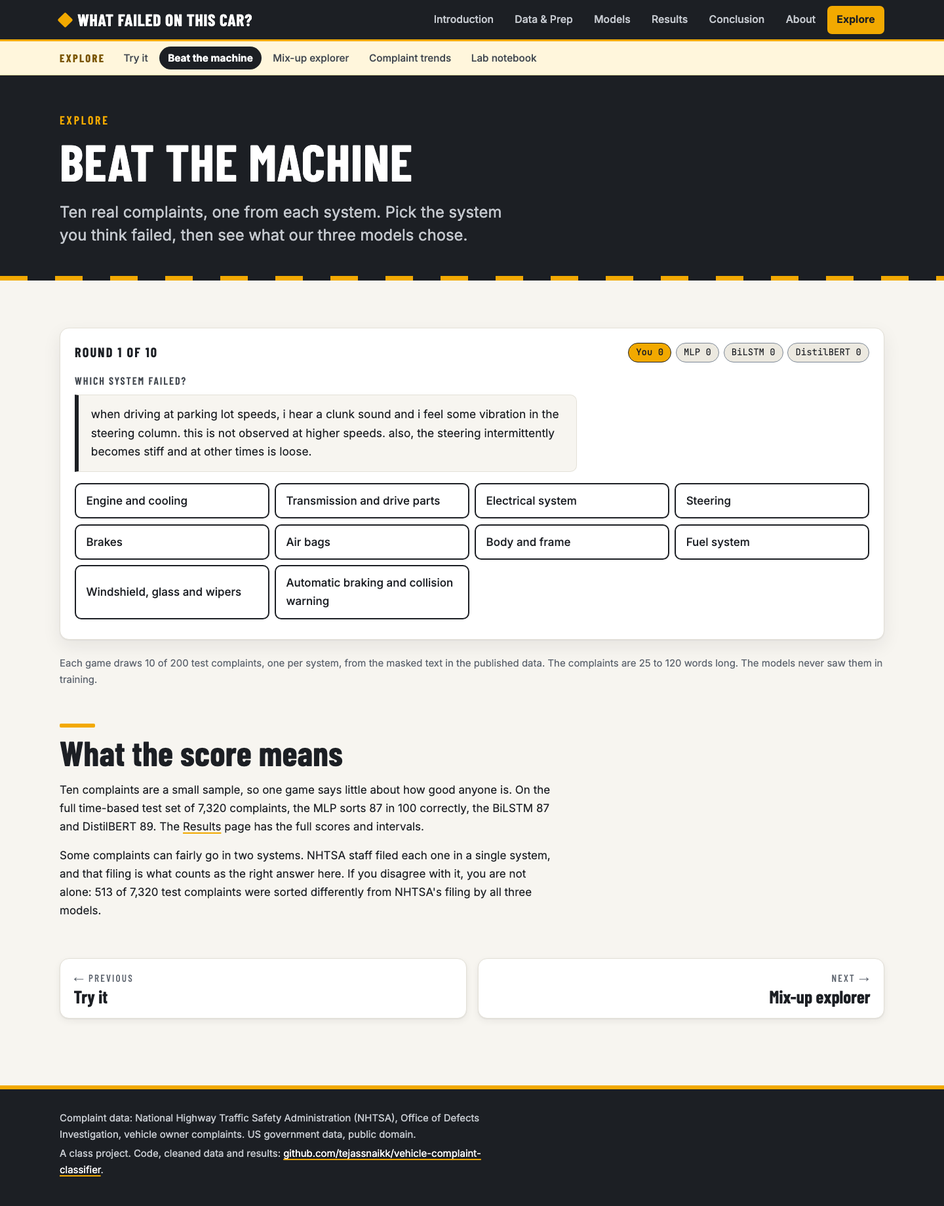
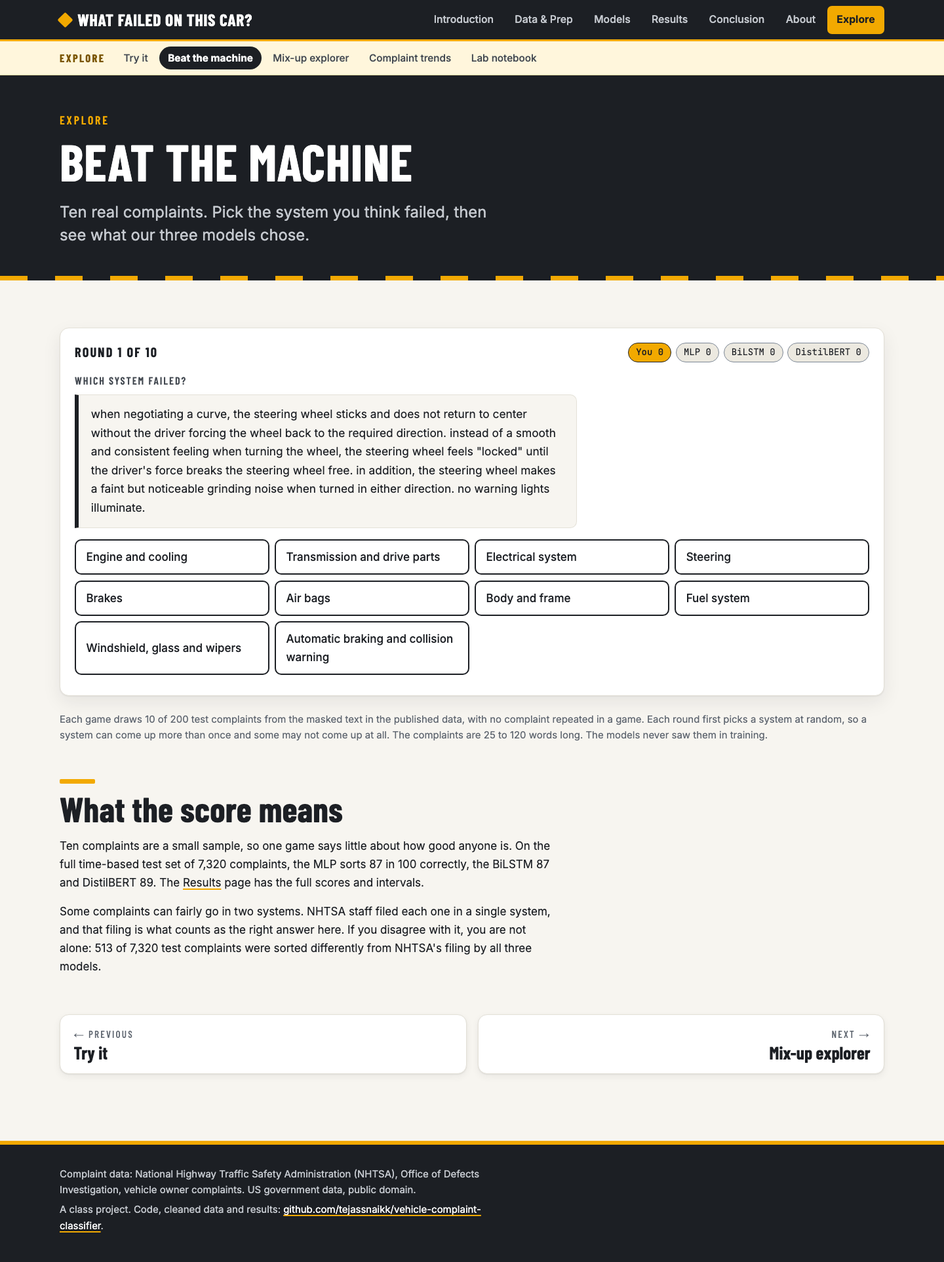
Explore: remove top-makes chart, random game rounds without repeats, notebook reads pre_masking_scores.json

diff --git a/docs/trends.html b/docs/trends.html
@@ -5,7 +5,7 @@
 <meta name="viewport" content="width=device-width, initial-scale=1">
 <meta name="theme-color" content="#1c1f24">
 <title>Complaint trends | What Failed on This Car?</title>
-<meta name="description" content="Interactive charts of NHTSA vehicle complaints per month by system, with filters for make and model year.">
+<meta name="description" content="An interactive chart of NHTSA vehicle complaints per month by system, with filters for make and model year.">
 <link rel="preconnect" href="https://fonts.googleapis.com">
 <link rel="preconnect" href="https://fonts.gstatic.com" crossorigin>
 <link rel="stylesheet" href="https://fonts.googleapis.com/css2?family=Barlow+Condensed:wght@500;600;700&amp;family=Inter:wght@400;500;600;700&amp;family=JetBrains+Mono:wght@400;500&amp;display=swap">
@@ -20,10 +20,10 @@
 <nav class="main" aria-label="Main"><ul><li><a href="introduction.html">Introduction</a></li><li><a href="data.html">Data &amp; Prep</a></li><li><a href="models.html">Models</a></li><li><a href="results.html">Results</a></li><li><a href="conclusion.html">Conclusion</a></li><li><a href="about.html">About</a></li><li><a href="try.html" aria-current="page" class=explore-link>Explore</a></li></ul></nav>
 </div></header>
 <nav class="explore-bar" aria-label="Explore"><div class="inner"><span class="lab">Explore</span><ul><li><a href="try.html">Try it</a></li><li><a href="game.html">Beat the machine</a></li><li><a href="mixups.html">Mix-up explorer</a></li><li><a href="trends.html" aria-current="page">Complaint trends</a></li><li><a href="notebook.html">Lab notebook</a></li></ul></div></nav>
-<div class="page-head"><div class="inner"><div class="kicker">Explore</div><h1>Complaint trends</h1><div class="subtitle">How many complaints each system gets per month, and which makes and model years they come from.</div></div></div>
+<div class="page-head"><div class="inner"><div class="kicker">Explore</div><h1>Complaint trends</h1><div class="subtitle">How many complaints each system gets per month, filtered by make and model year.</div></div></div>
 <main id="content">
 <section>
-<p class="section-lead">These charts count the 198,462 complaints in our cleaned dataset, received from January 2020 to October 2026. They are counts only. The balanced training and test samples used for the models are not used here, so the shares reflect the real mix of complaints in the cleaned dataset.</p>
+<p class="section-lead">This chart counts the 198,462 complaints in our cleaned dataset, received from January 2020 to October 2026. They are counts only. The balanced training and test samples used for the models are not used here, so the shares reflect the real mix of complaints in the cleaned dataset.</p>
 <div class="tool" id="tr-app" hidden>
 <div class="filters">
 <div class="cm-group"><label class="field-label" for="tr-make">Make</label><select id="tr-make"></select></div>
@@ -33,17 +33,14 @@
 <div class="chips" id="tr-chips" role="group" aria-label="Show or hide systems"></div>
 <div class="chart-wrap"><svg id="tr-line" role="img" aria-labelledby="tr-line-title" preserveAspectRatio="xMidYMid meet"><title id="tr-line-title">Line chart of complaints per month for the selected systems</title></svg><div class="tip" id="tr-tip" hidden></div></div>
 <div class="small" id="tr-summary"></div>
-<h2 class="chart-title">Top 10 makes for one system</h2>
-<div class="filters"><div class="cm-group"><label class="field-label" for="tr-sys">System</label><select id="tr-sys"></select></div></div>
-<div class="bars" id="tr-makes"></div>
-<div class="small">This chart uses the model-year filter above and ignores the make filter. It ranks the 30 makes with the most complaints overall, so a make outside that list never appears here.</div>
+<p class="small">Complaint counts reflect how many vehicles are on the road, not how reliable a make is.</p>
 <details><summary>Show the monthly numbers as a table</summary><div class="table-wrap" id="tr-table"></div></details>
 </div>
 <div id="tr-fallback"><div class="callout"><div class="callout-title">JavaScript is off</div><div class="body"><p>The interactive charts need JavaScript. The table below has complaints per year and system.</p></div></div>
 <div class="table-wrap"><table class="mx-static"><caption>Complaints received per year by system, cleaned dataset (2026 covers January to October).</caption><thead><tr><th scope="col">System</th><th scope="col">2020</th><th scope="col">2021</th><th scope="col">2022</th><th scope="col">2023</th><th scope="col">2024</th><th scope="col">2025</th><th scope="col">2026</th></tr></thead><tbody><tr><th scope="row">Engine and cooling</th><td>5,198</td><td>5,108</td><td>6,194</td><td>7,494</td><td>9,001</td><td>10,512</td><td>8,108</td></tr><tr><th scope="row">Transmission and drive parts</th><td>3,976</td><td>3,164</td><td>3,988</td><td>4,320</td><td>4,817</td><td>6,216</td><td>5,780</td></tr><tr><th scope="row">Electrical system</th><td>3,543</td><td>3,043</td><td>2,761</td><td>3,067</td><td>3,188</td><td>4,200</td><td>4,333</td></tr><tr><th scope="row">Steering</th><td>3,541</td><td>2,731</td><td>2,694</td><td>3,605</td><td>3,462</td><td>2,748</td><td>2,322</td></tr><tr><th scope="row">Brakes</th><td>2,543</td><td>2,206</td><td>2,401</td><td>3,104</td><td>2,931</td><td>2,762</td><td>2,295</td></tr><tr><th scope="row">Air bags</th><td>2,281</td><td>1,786</td><td>1,595</td><td>1,663</td><td>1,582</td><td>1,308</td><td>1,172</td></tr><tr><th scope="row">Body and frame</th><td>1,793</td><td>1,503</td><td>1,321</td><td>1,918</td><td>2,016</td><td>2,085</td><td>1,677</td></tr><tr><th scope="row">Fuel system</th><td>2,307</td><td>1,610</td><td>1,566</td><td>1,741</td><td>2,420</td><td>2,117</td><td>2,104</td></tr><tr><th scope="row">Windshield, glass and wipers</th><td>1,620</td><td>1,199</td><td>1,075</td><td>1,088</td><td>839</td><td>850</td><td>735</td></tr><tr><th scope="row">Automatic braking and collision warning</th><td>78</td><td>448</td><td>1,760</td><td>1,185</td><td>933</td><td>837</td><td>894</td></tr></tbody></table></div></div>
 </section>
 <section>
-<h2>How to read these charts</h2>
+<h2>How to read this chart</h2>
 <ul>
 <li><strong>Counts depend on who files.</strong> A make with more cars on the road gets more complaints, so a long bar is not the same as a worse car. We do not know how many vehicles each make sold.</li>
 <li><strong>Recent months can look low.</strong> Complaints keep arriving after a failure, and the owner may report months later. We make no claim about trends in the last few months.</li>

diff --git a/docs/js/trends.js b/docs/js/trends.js
@@ -28,18 +28,6 @@
     return out;
   }
 
-  function topMakes(sys) {
-    var tot = new Array(M.makes.length).fill(0), T = M.months.length, S = M.classes.length, t, k;
-    for (t = 0; t < T; t++) {
-      var g = t * S + sys;
-      for (k = rec.offsets[g]; k < rec.offsets[g + 1]; k++) {
-        if (year >= 0 && rec.year[k] !== year) continue;
-        tot[rec.make[k]] += rec.count[k];
-      }
-    }
-    return tot.map(function (v, i) { return [i, v]; }).filter(function (x) { return x[0] < M.makes.length - 1; }).sort(function (a, b) { return b[1] - a[1]; }).slice(0, 10);
-  }
-
   function el(tag, attrs, parent) { var e = document.createElementNS(NS, tag); for (var k in attrs) e.setAttribute(k, attrs[k]); if (parent) parent.appendChild(e); return e; }
 
   function niceMax(v) { if (v <= 0) return 10; var p = Math.pow(10, Math.floor(Math.log10(v))), f = v / p; return (f <= 1 ? 1 : f <= 2 ? 2 : f <= 5 ? 5 : 10) * p; }
@@ -96,13 +84,6 @@
     });
   }
 
-  function drawMakes() {
-    var s = +$("tr-sys").value, top = topMakes(s), mx = top.length ? top[0][1] : 1;
-    $("tr-makes").innerHTML = top.map(function (r) {
-      return '<div class="bar-row"><span class="name">' + esc(M.makes[r[0]]) + '</span><span class="track"><span class="fill" style="display:block;width:' + (mx ? r[1] / mx * 100 : 0).toFixed(1) + '%"></span></span><span class="pct">' + nf(r[1]) + "</span></div>";
-    }).join("") || '<p class="small">No complaints for this filter.</p>';
-  }
-
   function hover(ev) {
     var svg = $("tr-line"), r = svg.getBoundingClientRect(), px = (ev.clientX - r.left) / r.width * W;
     var t = Math.max(0, Math.min(M.months.length - 1, Math.round((px - PL) / (W - PL - PR) * (M.months.length - 1))));
@@ -124,12 +105,10 @@
     on = M.classes.map(function (c, i) { return i < 4; });
     fill($("tr-make"), [[-1, "All makes"]].concat(M.makes.map(function (m, i) { return [i, m === "OTHER MAKES" ? "All other makes" : m]; })));
     fill($("tr-year"), [[-1, "All model years"]].concat(M.years.map(function (yv, i) { return [i, yv === 0 ? "Before 2010 or not given" : String(yv)]; })));
-    fill($("tr-sys"), M.classes.map(function (c, i) { return [i, M.plain_names[i]]; }));
     $("tr-make").addEventListener("change", function () { make = +this.value; drawLine(); });
-    $("tr-year").addEventListener("change", function () { year = +this.value; drawLine(); drawMakes(); });
-    $("tr-sys").addEventListener("change", drawMakes);
+    $("tr-year").addEventListener("change", function () { year = +this.value; drawLine(); });
     var svg = $("tr-line"); svg.addEventListener("pointermove", hover); svg.addEventListener("pointerleave", leave);
     var rt; window.addEventListener("resize", function () { clearTimeout(rt); rt = setTimeout(function () { if (!app.hidden) drawLine(); }, 150); });
-    chips(); app.hidden = false; $("tr-fallback").hidden = true; drawLine(); drawMakes();
+    chips(); app.hidden = false; $("tr-fallback").hidden = true; drawLine();
   }).catch(function () { $("tr-fallback").insertAdjacentHTML("afterbegin", '<p class="verdict miss">The data files could not be loaded.</p>'); });
 })();

diff --git a/docs/index.html b/docs/index.html
@@ -36,7 +36,7 @@
 
 <div class="small">A class project using public NHTSA complaint data. Not an NHTSA product, and not safety advice.</div>
 </section>
-<section id="explore"><h2>Explore</h2><div class="section-lead">Hands-on pages that sit beside the story. They use the same data and the same results.</div><ol class="how explore-cards"><li><a href="try.html"><span class="ttl">Try it</span><span class="what">Type or load a complaint and watch our simplest model sort it, running in your browser.</span></a></li><li><a href="game.html"><span class="ttl">Beat the machine</span><span class="what">Sort 10 real complaints yourself, then see how our three models did on the same ones.</span></a></li><li><a href="mixups.html"><span class="ttl">Mix-up explorer</span><span class="what">Click any cell of the confusion grid to read real complaints the best model put in the wrong system.</span></a></li><li><a href="trends.html"><span class="ttl">Complaint trends</span><span class="what">See how many complaints each system gets per month, by make and model year.</span></a></li><li><a href="notebook.html"><span class="ttl">Lab notebook</span><span class="what">A timeline of the decisions and findings that shaped this project, each with the number that mattered.</span></a></li></ol></section>
+<section id="explore"><h2>Explore</h2><div class="section-lead">Hands-on pages that sit beside the story. They use the same data and the same results.</div><ol class="how explore-cards"><li><a href="try.html"><span class="ttl">Try it</span><span class="what">Type or load a complaint and watch our simplest model sort it, running in your browser.</span></a></li><li><a href="game.html"><span class="ttl">Beat the machine</span><span class="what">Sort 10 real complaints yourself, then see how our three models did on the same ones.</span></a></li><li><a href="mixups.html"><span class="ttl">Mix-up explorer</span><span class="what">Click any cell of the confusion grid to read real complaints the best model put in the wrong system.</span></a></li><li><a href="trends.html"><span class="ttl">Complaint trends</span><span class="what">See how many complaints each system gets per month, filtered by make and model year.</span></a></li><li><a href="notebook.html"><span class="ttl">Lab notebook</span><span class="what">A timeline of the decisions and findings that shaped this project, each with the number that mattered.</span></a></li></ol></section>
 <nav class="pager" aria-label="Previous and next page"><a class="next" href="introduction.html"><span class="dir">Next &rarr;</span><span class="ttl">Introduction</span></a></nav>
 </main>
 <footer><div class="inner">

diff --git a/docs/game.html b/docs/game.html
@@ -20,7 +20,7 @@
 <nav class="main" aria-label="Main"><ul><li><a href="introduction.html">Introduction</a></li><li><a href="data.html">Data &amp; Prep</a></li><li><a href="models.html">Models</a></li><li><a href="results.html">Results</a></li><li><a href="conclusion.html">Conclusion</a></li><li><a href="about.html">About</a></li><li><a href="try.html" aria-current="page" class=explore-link>Explore</a></li></ul></nav>
 </div></header>
 <nav class="explore-bar" aria-label="Explore"><div class="inner"><span class="lab">Explore</span><ul><li><a href="try.html">Try it</a></li><li><a href="game.html" aria-current="page">Beat the machine</a></li><li><a href="mixups.html">Mix-up explorer</a></li><li><a href="trends.html">Complaint trends</a></li><li><a href="notebook.html">Lab notebook</a></li></ul></div></nav>
-<div class="page-head"><div class="inner"><div class="kicker">Explore</div><h1>Beat the machine</h1><div class="subtitle">Ten real complaints, one from each system. Pick the system you think failed, then see what our three models chose.</div></div></div>
+<div class="page-head"><div class="inner"><div class="kicker">Explore</div><h1>Beat the machine</h1><div class="subtitle">Ten real complaints. Pick the system you think failed, then see what our three models chose.</div></div></div>
 <main id="content">
 <section>
 <noscript><div class="callout error"><div class="callout-title">JavaScript is off</div><div class="body"><p>The game needs JavaScript to deal complaints and keep score. Without it you can read how the models did on the <a href="results.html">Results</a> page, or see single complaints on the <a href="introduction.html">Introduction</a> page.</p></div></div></noscript>
@@ -28,7 +28,7 @@
 <div class="game-top"><div class="round" id="g-round" aria-live="polite"></div><div class="live-score" id="g-live" aria-label="Running score"></div></div>
 <div id="g-stage"></div>
 </div>
-<div class="small">Each game draws 10 of 200 test complaints, one per system, from the masked text in the published data. The complaints are 25 to 120 words long. The models never saw them in training.</div>
+<div class="small">Each game draws 10 of 200 test complaints from the masked text in the published data, with no complaint repeated in a game. Each round first picks a system at random, so a system can come up more than once and some may not come up at all. The complaints are 25 to 120 words long. The models never saw them in training.</div>
 </section>
 <section>
 <h2>What the score means</h2>

diff --git a/src/browser_tests/trends.js b/src/browser_tests/trends.js
@@ -7,7 +7,6 @@ exports.run = async (p, w) => {
   p.log("Ford:", await p.eval("document.getElementById('tr-summary').textContent"));
   await p.eval("(()=>{const s=document.getElementById('tr-year');s.value=String([...s.options].findIndex(o=>o.text==='2020')-1);s.dispatchEvent(new Event('change'))})()");
   p.log("Ford 2020:", await p.eval("document.getElementById('tr-summary').textContent"));
-  p.log("top makes (Engine, 2020):", await p.eval("[...document.querySelectorAll('#tr-makes .bar-row')].map(e=>e.querySelector('.name').textContent+' '+e.querySelector('.pct').textContent).join(', ')"));
   await p.eval("(()=>{const s=document.getElementById('tr-make');s.value='-1';s.dispatchEvent(new Event('change'));const y=document.getElementById('tr-year');y.value='-1';y.dispatchEvent(new Event('change'))})()");
   p.log("reset:", await p.eval("document.getElementById('tr-summary').textContent"));
   await p.eval(`(()=>{const r=document.getElementById('tr-line').getBoundingClientRect();document.getElementById('tr-line').dispatchEvent(new PointerEvent('pointermove',{clientX:r.left+r.width*0.6,clientY:r.top+50,bubbles:true}))})()`);

diff --git a/src/browser_tests/game.js b/src/browser_tests/game.js
@@ -1,14 +1,18 @@
 exports.run = async (p, w) => {
+  const seen = [];
   await p.waitFor("document.querySelectorAll('.choice').length === 10");
   for (let r = 0; r < 10; r++) {
     await p.waitFor("document.querySelectorAll('.choice').length === 10 && !document.querySelector('.choice').disabled");
     if (r === 0) await p.shot("explore_game_round");
+    seen.push(await p.eval("document.querySelector('.complaint').textContent"));
     await p.click(".choice:nth-child(" + (1 + (r % 10)) + ")");
     await p.waitFor("document.getElementById('g-next')");
     if (r === 1) await p.shot("explore_game_reveal");
     p.log("round", r + 1, "live:", await p.eval("document.getElementById('g-live').textContent"));
     await p.click("#g-next");
   }
+  if (new Set(seen).size !== 10) throw new Error('a complaint repeated within one game');
+  p.log('10 distinct complaints in the game');
   await p.waitFor("document.getElementById('g-again')");
   p.log("final:", await p.eval("document.querySelector('.final h2').textContent + ' / ' + document.querySelector('.final p').textContent"));
   await p.shot("explore_game_final");

diff --git a/docs/js/game.js b/docs/js/game.js
@@ -11,10 +11,18 @@
   function esc(s) { var d = document.createElement("div"); d.textContent = s; return d.innerHTML; }
   function shuffle(a) { for (var i = a.length - 1; i > 0; i--) { var j = Math.floor(Math.random() * (i + 1)), t = a[i]; a[i] = a[j]; a[j] = t; } return a; }
 
+  var ROUNDS = 10;
   function deal() {
+    // each round: pick a system at random, then an unused complaint of that system (systems may repeat; complaints never do within a game)
     var byClass = data.classes.map(function () { return []; });
     data.items.forEach(function (it) { byClass[it.label].push(it); });
-    rounds = shuffle(byClass.map(function (list) { return list[Math.floor(Math.random() * list.length)]; }));
+    byClass.forEach(shuffle);
+    rounds = [];
+    while (rounds.length < ROUNDS) {
+      var open = byClass.map(function (l, c) { return l.length ? c : -1; }).filter(function (c) { return c >= 0; });
+      var c = open[Math.floor(Math.random() * open.length)];
+      rounds.push(byClass[c].pop());
+    }
     idx = 0; score = { you: 0, mlp: 0, bilstm: 0, distilbert: 0 };
     show();
   }

diff --git a/docs/css/style.css b/docs/css/style.css
@@ -410,7 +410,6 @@ select { font: inherit; font-size: .95rem; padding: .5rem .7rem; border: 2px sol
 .tip b { font-family: var(--font-mono); font-weight: 500; }
 .tip .row { display: flex; justify-content: space-between; gap: 1rem; }
 .tip .dot { display: inline-block; width: .7rem; height: .7rem; border-radius: 50%; margin-right: .4rem; border: 1px solid #fff; }
-#tr-makes .bar-row { grid-template-columns: minmax(7rem, 12rem) 1fr 4rem; }
 
 /* ---------- Lab notebook timeline ---------- */
 .nb { list-style: none; margin: 1.6rem 0; padding: 0 0 0 1.6rem; max-width: 52rem; border-left: 4px solid var(--asphalt); }

diff --git a/src/10_build_site.py b/src/10_build_site.py
@@ -32,7 +32,7 @@ PAGES = [("introduction.html", "Introduction"), ("data.html", "Data & Prep"), ("
 EXPLORE = [("try.html", "Try it", "Type or load a complaint and watch our simplest model sort it, running in your browser."),
            ("game.html", "Beat the machine", "Sort 10 real complaints yourself, then see how our three models did on the same ones."),
            ("mixups.html", "Mix-up explorer", "Click any cell of the confusion grid to read real complaints the best model put in the wrong system."),
-           ("trends.html", "Complaint trends", "See how many complaints each system gets per month, by make and model year."),
+           ("trends.html", "Complaint trends", "See how many complaints each system gets per month, filtered by make and model year."),
            ("notebook.html", "Lab notebook", "A timeline of the decisions and findings that shaped this project, each with the number that mattered."),
            ]
 EXPLORE_FILES = [f for f, _, _ in EXPLORE]
@@ -979,14 +979,14 @@ def build_game():
     smp = jl(DOCS / "data" / "sample_complaints.json")
     n_smp = len(smp["items"])
     acc = {m: S(m, "temporal").test_accuracy for m in MODELS}
-    head = phead("Explore", "Beat the machine", "Ten real complaints, one from each system. Pick the system you think failed, then see what our three models chose.")
+    head = phead("Explore", "Beat the machine", "Ten real complaints. Pick the system you think failed, then see what our three models chose.")
     body = f"""<section>
 <noscript><div class="callout error"><div class="callout-title">JavaScript is off</div><div class="body"><p>The game needs JavaScript to deal complaints and keep score. Without it you can read how the models did on the <a href="results.html">Results</a> page, or see single complaints on the <a href="introduction.html">Introduction</a> page.</p></div></div></noscript>
 <div class="tool" id="game-app" hidden>
 <div class="game-top"><div class="round" id="g-round" aria-live="polite"></div><div class="live-score" id="g-live" aria-label="Running score"></div></div>
 <div id="g-stage"></div>
 </div>
-<div class="small">Each game draws 10 of {n(n_smp)} test complaints, one per system, from the masked text in the published data. The complaints are 25 to 120 words long. The models never saw them in training.</div>
+<div class="small">Each game draws 10 of {n(n_smp)} test complaints from the masked text in the published data, with no complaint repeated in a game. Each round first picks a system at random, so a system can come up more than once and some may not come up at all. The complaints are 25 to 120 words long. The models never saw them in training.</div>
 </section>
 <section>
 <h2>What the score means</h2>
@@ -1034,9 +1034,9 @@ def build_trends():
               + "".join(f'<th scope="col">{y}</th>' for y in years) + "</tr></thead><tbody>"
               + "".join(f'<tr><th scope="row">{esc(pn[i])}</th>' + "".join(f"<td>{n(tr['yearly_by_system'][y][i])}</td>" for y in years) + "</tr>" for i in range(len(pn)))
               + "</tbody></table>")
-    head = phead("Explore", "Complaint trends", "How many complaints each system gets per month, and which makes and model years they come from.")
+    head = phead("Explore", "Complaint trends", "How many complaints each system gets per month, filtered by make and model year.")
     body = f"""<section>
-<p class="section-lead">These charts count the {n(tr['total_complaints'])} complaints in our cleaned dataset, received from January 2020 to October 2026. They are counts only. The balanced training and test samples used for the models are not used here, so the shares reflect the real mix of complaints in the cleaned dataset.</p>
+<p class="section-lead">This chart counts the {n(tr['total_complaints'])} complaints in our cleaned dataset, received from January 2020 to October 2026. They are counts only. The balanced training and test samples used for the models are not used here, so the shares reflect the real mix of complaints in the cleaned dataset.</p>
 <div class="tool" id="tr-app" hidden>
 <div class="filters">
 <div class="cm-group"><label class="field-label" for="tr-make">Make</label><select id="tr-make"></select></div>
@@ -1046,17 +1046,14 @@ def build_trends():
 <div class="chips" id="tr-chips" role="group" aria-label="Show or hide systems"></div>
 <div class="chart-wrap"><svg id="tr-line" role="img" aria-labelledby="tr-line-title" preserveAspectRatio="xMidYMid meet"><title id="tr-line-title">Line chart of complaints per month for the selected systems</title></svg><div class="tip" id="tr-tip" hidden></div></div>
 <div class="small" id="tr-summary"></div>
-<h2 class="chart-title">Top 10 makes for one system</h2>
-<div class="filters"><div class="cm-group"><label class="field-label" for="tr-sys">System</label><select id="tr-sys"></select></div></div>
-<div class="bars" id="tr-makes"></div>
-<div class="small">This chart uses the model-year filter above and ignores the make filter. It ranks the {len(tr['makes']) - 1} makes with the most complaints overall, so a make outside that list never appears here.</div>
+<p class="small">Complaint counts reflect how many vehicles are on the road, not how reliable a make is.</p>
 <details><summary>Show the monthly numbers as a table</summary><div class="table-wrap" id="tr-table"></div></details>
 </div>
 <div id="tr-fallback"><div class="callout"><div class="callout-title">JavaScript is off</div><div class="body"><p>The interactive charts need JavaScript. The table below has complaints per year and system.</p></div></div>
 <div class="table-wrap">{static}</div></div>
 </section>
 <section>
-<h2>How to read these charts</h2>
+<h2>How to read this chart</h2>
 <ul>
 <li><strong>Counts depend on who files.</strong> A make with more cars on the road gets more complaints, so a long bar is not the same as a worse car. We do not know how many vehicles each make sold.</li>
 <li><strong>Recent months can look low.</strong> Complaints keep arriving after a failure, and the owner may report months later. We make no claim about trends in the last few months.</li>
@@ -1065,14 +1062,14 @@ def build_trends():
 </ul>
 {callout("No complaint text here", "<p>These pages show counts only. The data file behind them has one number per month, system, make and model year, and no text, report numbers or dates finer than a month.</p>", "plain")}
 </section>"""
-    return page("trends.html", "Complaint trends", body, "Interactive charts of NHTSA vehicle complaints per month by system, with filters for make and model year.", head, scripts=["trends.js"])
+    return page("trends.html", "Complaint trends", body, "An interactive chart of NHTSA vehicle complaints per month by system, with filters for make and model year.", head, scripts=["trends.js"])
 
 
 def build_notebook():
     tc = pd.read_csv(R / "eda" / "top_level_counts.csv").set_index("top_level")["count"]
     mk = jl(R / "masking_counts.json")
     late = jl(R / "late_phone_masking.json")
-    pre = jl(R / "premasking_scores.json")
+    pre = jl(R / "masking_rerun_comparison.json")
     nf_share = funnel["dropped_no_failure"] / funnel["in_class_list"] * 100
     pair = leak_terms[1]
     mlp_t, bil_t, dil_t = S("mlp", "temporal"), S("bilstm", "temporal"), S("distilbert", "temporal")

diff --git a/src/11_export_web.py b/src/11_export_web.py
@@ -200,20 +200,17 @@ def export_trends():
 
 # ---------------------------------------------------------------------------------------------- 5. lab notebook
 def export_notebook():
-    """results/premasking_scores.json: test macro-F1 before the contact-detail masking re-run (parsed from the "previous:" line in PROGRESS.md) and after."""
-    import re
-    txt = (ROOT / "PROGRESS.md").read_text()
-    m = re.search(r"previous: ([\d. /,]+)\)", txt.split("## Full re-run with masking finished")[1])
-    vals = [float(x) for x in re.findall(r"0\.\d{4}", m.group(1))]
-    assert len(vals) == 6, vals
-    names = [("MLP (TF-IDF)", "temporal"), ("MLP (TF-IDF)", "random"), ("BiLSTM", "temporal"), ("BiLSTM", "random"), ("DistilBERT", "temporal"), ("DistilBERT", "random")]
+    """results/masking_rerun_comparison.json: test macro-F1 before the contact-detail masking re-run (results/pre_masking_scores.json, written once
+    from git history) next to the current scores (results/summary_table.csv)."""
+    before = {(r["model"], r["split"]): r["test_macro_f1"] for r in json.loads((R / "pre_masking_scores.json").read_text())["rows"]}
     cur = pd.read_csv(R / "summary_table.csv")
     rows = []
-    for (mod, sp), old in zip(names, vals):
+    for (mod, sp), old in before.items():
         new = float(cur[(cur.model == mod) & (cur.split == sp)].test_macro_f1.iloc[0])
-        rows.append({"model": mod, "split": sp, "test_macro_f1_before_masking_rerun": old, "test_macro_f1_after": round(new, 4), "abs_difference": round(abs(new - old), 4)})
-    out = {"source": "PROGRESS.md (scores recorded before the re-run) and results/summary_table.csv", "rows": rows, "max_abs_difference": max(r["abs_difference"] for r in rows)}
-    (R / "premasking_scores.json").write_text(json.dumps(out, indent=2))
+        rows.append({"model": mod, "split": sp, "test_macro_f1_before": old, "test_macro_f1_after": round(new, 4), "abs_difference": round(abs(new - old), 4)})
+    assert len(rows) == 6
+    out = {"source": "results/pre_masking_scores.json and results/summary_table.csv", "rows": rows, "max_abs_difference": max(r["abs_difference"] for r in rows)}
+    (R / "masking_rerun_comparison.json").write_text(json.dumps(out, indent=2))
     return out
 
 

diff --git a/PROGRESS.md b/PROGRESS.md
@@ -499,8 +499,11 @@ With git-filter-repo, every earlier version of data/clean/*.csv was removed from
 ## Explore section (2026-11-05)
 Five static interactive pages under a separate "Explore" group (nav item, amber sub-bar on those pages, cards on the home page). `src/11_export_web.py` writes everything they load to `docs/data/`; `src/10_build_site.py` builds the pages; each page has its own file in `docs/js/`. No server, no external services.
 - **Try it** (`try.html`): the trained temporal MLP in the browser (`docs/js/mlp.js`: sklearn-style TF-IDF, int8 weights with per-row float32 scales). `mlp_vocab.json` 0.6 MB + `mlp_weights.bin` 15.6 MB, loaded only on this page with a progress bar. Check on 1,000 temporal test texts (Python float model vs Node running the same JS): 100% same predicted class, max probability difference 0.0028 (`results/browser_model_check.json`, `src/verify_browser_model.js`; the export fails below 99.5%).
-- **Beat the machine** (`game.html`): 10 rounds, one complaint per system from a 200-complaint test sample (`sample_complaints.json`, 20 per system, 25 to 120 words) with the precomputed predictions of all three models.
+- **Beat the machine** (`game.html`): 10 rounds from a 200-complaint test sample (`sample_complaints.json`, 20 per system, 25 to 120 words) with the precomputed predictions of all three models.
 - **Mix-up explorer** (`mixups.html`): DistilBERT temporal confusion grid (HTML buttons) with up to 5 random real complaints per cell and the model's confidence (`mixups.json`, matrix checked against the saved accuracy).
 - **Complaint trends** (`trends.html`): counts only (month x system x make x model year, 80,596 records in `trends.bin`, 0.3 MB; top 30 makes plus "other", model years 2010 to 2027 plus "before 2010 or not given"), SVG line chart with system toggles, make and model-year filters, top 10 makes per system. Yearly totals for the no-JS table in `results/eda/trends_yearly_by_system.csv`.
-- **Lab notebook** (`notebook.html`): ten steps for a general reader, each with one number from `results/`. The before/after-masking scores come from `results/premasking_scores.json`, parsed by the export from the "previous:" line of the re-run entry above, so do not reword that line.
+- **Lab notebook** (`notebook.html`): ten steps for a general reader, each with one number from `results/`. The before-masking scores are read from `results/pre_masking_scores.json` (written once from git history, commit dc1cb2b), and `11_export_web.py` writes the comparison to `results/masking_rerun_comparison.json`. PROGRESS.md is no longer parsed.
 - **Checks:** `check_site.py` now also fails on broken links, missing scripts or data files, pages not linked from anywhere, and (in normal mode too) any contrast or template failure; `privacy_scan.py` also scans `docs/data/*.json` (zero matches). `src/browser_check.js` drives headless Chrome through the DevTools protocol; scenarios in `src/browser_tests/` click through each page at 1440 and 390 px and save screenshots (`results/site_screenshots/explore_*.png`). `run_all.sh` gained a `11_export_web` step before `10_build_site`.
+
+## Explore changes (2026-11-05, decisions by Tejas)
+Kept the 15.6 MB MLP. Removed the top-10-makes chart from the trends page. The notebook no longer parses PROGRESS.md. The game now picks a random system each round (all 10 possible every round, repeats allowed) and an unused complaint of that system, so players cannot win by elimination; a note on the page says systems can repeat, and the browser test checks that no complaint repeats within a game.
